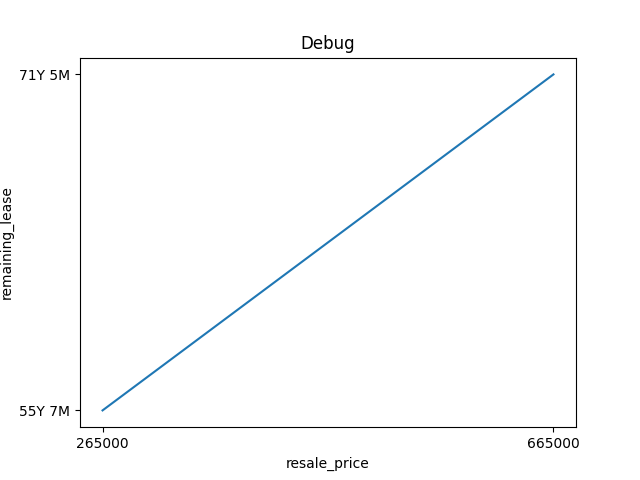
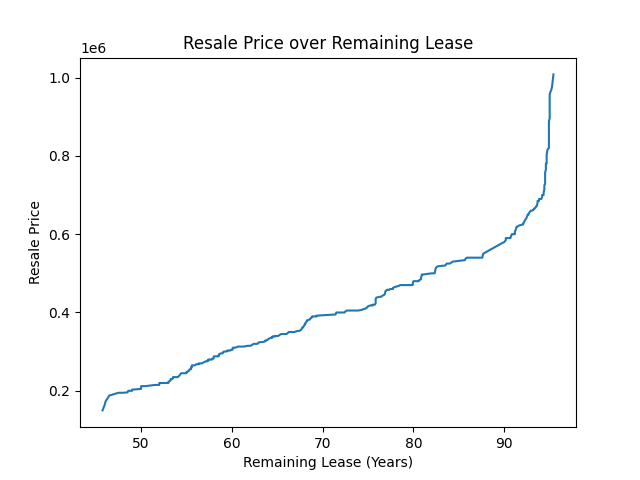
Bugfix on reading data from excel file

diff --git a/project/model/data.py b/project/model/data.py
@@ -4,21 +4,77 @@ from multiprocessing.dummy import Array
 import re
 
 class Data:
-    def __init__(self, name: str, data_category: DataCategory):
+    def __init__(self, name: str, data_category: DataCategory, display_name: str):
         self.name = name
         self.data_category = data_category
         self.data = []
-        self.major_label = []
+        self.display_name = display_name
 
     def set_data_by_category(self, raw_data: Array, data_category: DataCategory) -> _void:
         if data_category == DataCategory.DATE_REMAINING:
             for i in range(len(raw_data)):
-                years = int(re.sub(r'[^0-9]', '', raw_data[i].split("year")[0]))
-                months = int(re.sub(r'[^0-9]', '', raw_data[i].split("year")[1]))
-                self.data.append((years * 12) + months)
-                self.major_label.append(str(years) + "Y " + str(months) + "M")
+                # Get year/month as string
+                years_str = re.sub(r'[^0-9]', '', raw_data[i].split("year")[0])
+                months_str = re.sub(r'[^0-9]', '', raw_data[i].split("year")[1])
+
+                # Apply year/month if exists, otherwise default to 0
+                years = 0
+                months = 0
+                if years_str.strip():
+                    years = int(years_str)
+                if months_str.strip():
+                    months = int(months_str)
+
+                value = float(years) + (months / 12.0)
+                label = str(years) + "Y " + str(months) + "M"
+
+                self.data.append(Point(value, label))
         else:
             for i in range(len(raw_data)):
-                self.data.append(int(raw_data[i]))
-                self.major_label.append(str(raw_data[i]))
+                self.data.append(Point(int(raw_data[i]), str(raw_data[i])))
+
+        # Sort data
+        self.data = sorted(self.data)
+    
+    def get_data_ticks(self) -> Array:
+        # TODO: Better way to return this result
+        """
+        Returns an array of 2 elements, first containing values, the second containing labels
+
+        Result
+        ----------
+        An array of 2 elements
+        1st element is an array tick **values**
+        2nd element is an array of tick **labels**
+        """
+        tick_spacing = len(self.data) / 20
+        t = tick_spacing
+
+        res1 = []
+        res2 = []
+        for p in self.data:
+            if t == tick_spacing or p == self.data[len(self.data) - 1]:
+                t = 0
+                res1.append(p.value)
+                res2.append(p.label)
+            else:
+                t += 1
+        return [res1, res2]
+
+    # TODO: Find better way to do this stuff
+    def get_data_value(self) -> Array:
+        res = []
+        for p in self.data:
+            res.append(p.value)
+        return res
+
+
+class Point:
+    def __init__(self, value, label):
+        self.value = value
+        self.label = label
+
+    # for sorted() func
+    def __lt__(self, other):
+        return self.value < other.value
 

diff --git a/project/charter.py b/project/charter.py
@@ -2,6 +2,7 @@ from ast import Str
 from inspect import _void
 from multiprocessing.dummy import Array
 import matplotlib.pyplot as plt
+import numpy as np
 
 from model.data import Data
 from model.visual_chart import VisualChart
@@ -25,9 +26,13 @@ def _get_column_data_from_excel(excel_content: Array, header_name: str) -> Array
         raise Exception("The corresponding header name was not found in the excel path")
     
     column_data = []
-    for i in (1, len(excel_content) - 1):
-        curr_row_data = (excel_content[i].replace("\n", "").split(","))[header_index]
-        column_data.append(curr_row_data)
+    skip_first = False
+    for row in excel_content:
+        if not skip_first:
+            skip_first = True
+        else:
+            curr_row_data = (row.replace("\n", "").split(","))[header_index]
+            column_data.append(curr_row_data)
     return column_data
 
 def visual_chart(excel_file_path: str, visual_chart: VisualChart,  output_path: str) -> _void:
@@ -37,16 +42,23 @@ def visual_chart(excel_file_path: str, visual_chart: VisualChart,  output_path: 
     visual_chart.y_data.set_data_by_category(_get_column_data_from_excel(excel_content, visual_chart.y_data.name), visual_chart.y_data.data_category)
 
     ax = plt.axes()
-    plt.plot(visual_chart.x_data.data, visual_chart.y_data.data)
-    ax.set_xticks(visual_chart.x_data.data)
-    ax.set_xticklabels(visual_chart.x_data.major_label)
+    plt.plot(visual_chart.x_data.get_data_value(), visual_chart.y_data.get_data_value())
 
-    ax.set_yticks(visual_chart.y_data.data)
-    ax.set_yticklabels(visual_chart.y_data.major_label)
+    # TODO: Set proper tick labels (?)
+    xticks = visual_chart.x_data.get_data_ticks()
+    yticks = visual_chart.x_data.get_data_ticks()
 
     plt.title(visual_chart.title)
 
-    plt.xlabel(visual_chart.x_data.name)
-    plt.ylabel(visual_chart.y_data.name)
+    plt.xlabel(visual_chart.x_data.display_name)
+    plt.ylabel(visual_chart.y_data.display_name)
+
+    plt.savefig(output_path)
+
+def test(output_path: str) -> _void:
+    
+    x = np.random.randint(low=9000, high=10000, size=50)
+    y = np.random.randint(low=0, high=100000, size=1000000)
+    plt.plot(x)
 
     plt.savefig(output_path)

diff --git a/project/merger.py b/project/merger.py
@@ -16,7 +16,7 @@ def _set_excel_header(set_on: CSVExcel, path_reference_file: str) -> _void:
         csv_header.append(curr_headers[i].lower())
     set_on.append_row(csv_header)
 
-def _merge_csv_text(merge_on: CSVExcel, csv_text_lines: str) -> _void:
+def _merge_csv_text(merge_on: CSVExcel, csv_text_lines: str, filter_empty = True) -> _void:
     """Merges a excel file into the current excel object.
 
     It will auto-conflict and sort out any headers that is misaligned
@@ -31,6 +31,9 @@ def _merge_csv_text(merge_on: CSVExcel, csv_text_lines: str) -> _void:
 
     csv_text_lines : str,
         Path to the excel file to fetch and merge
+    
+    filter_empty: Boolean,
+        If True, it will remove any row that has a empty entry
     """
     # We find the indexing order to sort the columns properly when merging
     indexing_order = []
@@ -42,10 +45,20 @@ def _merge_csv_text(merge_on: CSVExcel, csv_text_lines: str) -> _void:
     for i in range(1, len(csv_text_lines)):
         # Append row-by-row
         curr_row_line = csv_text_lines[i].replace("\n", "").split(",")
-        curr_row_item = []
+        curr_row_items = []
+
+        abort_curr_row = False
         for index in indexing_order:
-            curr_row_item.append(curr_row_line[index])
-        merge_on.append_row(curr_row_item)
+            item = curr_row_line[index]
+            if not item.strip() and filter_empty:
+                abort_curr_row = True
+                break
+            else:
+                curr_row_items.append(curr_row_line[index])
+        if abort_curr_row:
+            continue
+        else:
+            merge_on.append_row(curr_row_items)
 
 def merge_excels(excel_file_paths: Array, saved_file_path: str) -> _void:
     """Merges all the given text-based CSV excel file into one based on the given headers.

diff --git a/project/main.py b/project/main.py
@@ -1,5 +1,5 @@
 from merger import merge_excels
-from charter import visual_chart
+from charter import visual_chart, test
 
 from model.data_category import DataCategory
 from model.data import Data
@@ -14,8 +14,9 @@ merge_excels(EXCEL_FILE_LOCATIONS, MERGED_FILE_PATH)
 
 OUTPUT_VISUAL_CHART_PATH = ("project\VisualCharts\debug.png")
 
-x_data = Data("resale_price", DataCategory.NUMBERS)
-y_data = Data("remaining_lease", DataCategory.DATE_REMAINING)
-debug_chart = VisualChart("Debug", x_data, y_data, ChartType.LINE_GRAPH)
+y_data = Data("resale_price", DataCategory.NUMBERS, "Resale Price")
+x_data = Data("remaining_lease", DataCategory.DATE_REMAINING, "Remaining Lease (Years)")
+debug_chart = VisualChart("Resale Price over Remaining Lease", x_data, y_data, ChartType.LINE_GRAPH)
 
 visual_chart(MERGED_FILE_PATH, debug_chart, OUTPUT_VISUAL_CHART_PATH)
+#test(OUTPUT_VISUAL_CHART_PATH)
